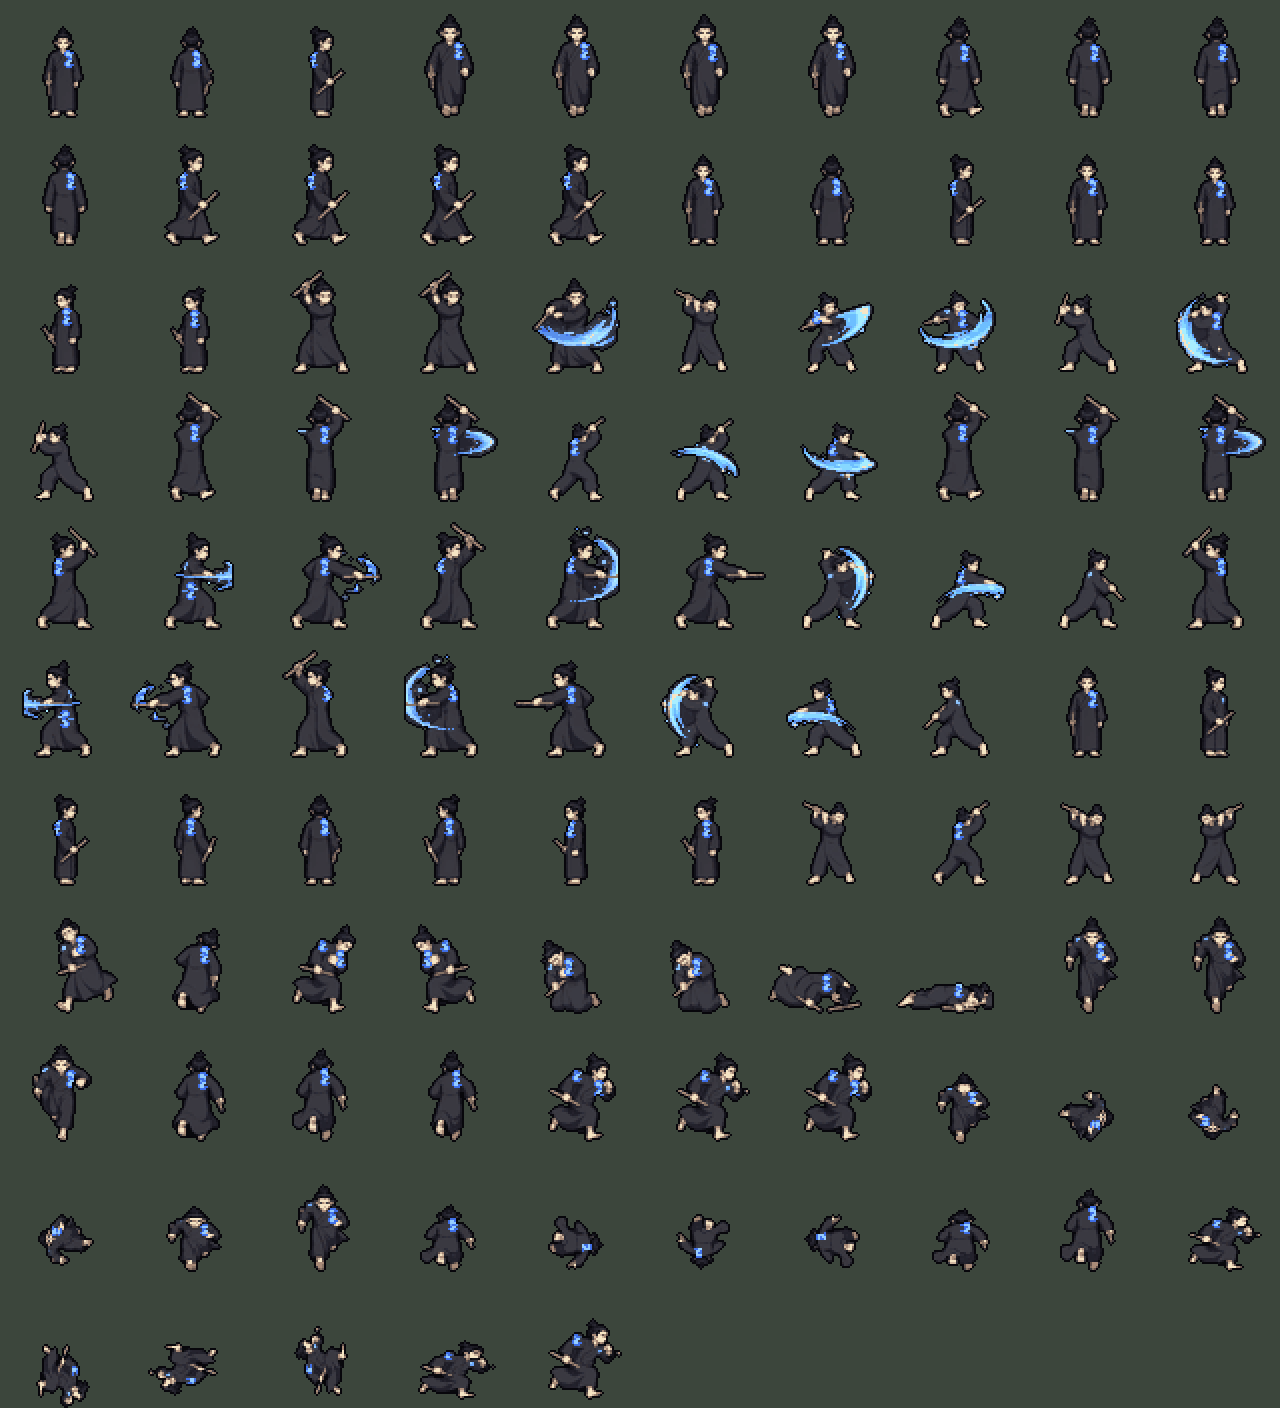
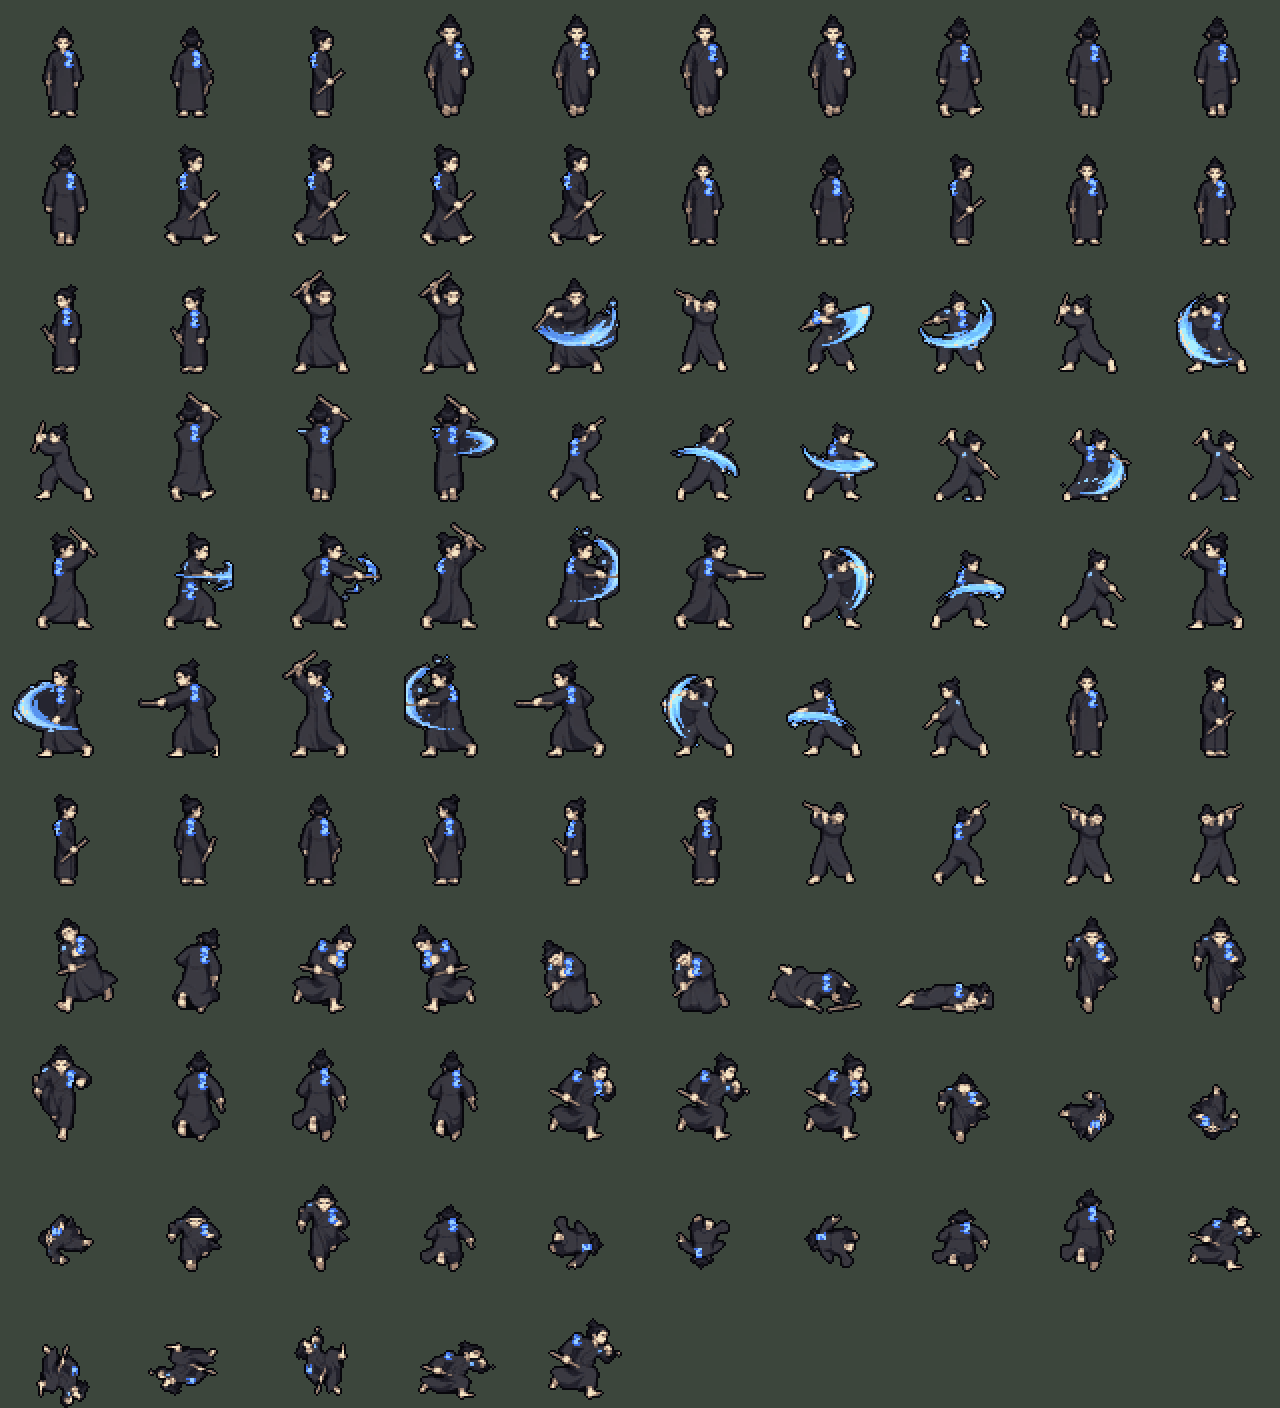
art(hero): 방향 컷 보강 — 왼쪽 1타 원본 컷, 위 3타 뒷모습 전용

diff --git a/art/import_hero.py b/art/import_hero.py
@@ -147,12 +147,14 @@ def build():
                  row('attack8', [(50, 890, 330, 1240), (330, 890, 620, 1240), (620, 890, 960, 1240)], A8)],
         'up': [row('attack', [(100, 425, 360, 850), (400, 425, 620, 850), (650, 425, 950, 850)], A),
                row('attack8', [(60, 490, 330, 850), (330, 490, 640, 850), (640, 490, 960, 850)], A8),
-               row('attack', [(100, 425, 360, 850), (400, 425, 620, 850), (650, 425, 950, 850)], A)],
+               row('attack8', [(990, 385, 1290, 670), (1290, 385, 1590, 670), (1590, 385, 1910, 670)], A8)],   # 3타: 반전 대체 -> 뒷모습 전용 컷
         'right': [row('attack', [(1030, 0, 1290, 425), (1290, 0, 1560, 425), (1560, 0, 1920, 425)], A),
                   row('attack', [(1010, 425, 1290, 850), (1290, 425, 1560, 850), (1560, 425, 1920, 850)], A),
                   row('attack8', [(990, 890, 1290, 1240), (1290, 890, 1590, 1240), (1590, 890, 1910, 1240)], A8)],
     }
     F['atk']['left'] = [[t.transpose(Image.FLIP_LEFT_RIGHT) for t in c] for c in F['atk']['right']]
+    # 왼쪽 1타는 반전이 아닌 원본 '왼쪽을 보는' 컷(attack 시트 3행)
+    F['atk']['left'][0] = row('attack', [(90, 860, 340, 1250), (310, 880, 620, 1250), (950, 870, 1260, 1250)], A)
     # ---- song (flute at the lips)
     F['song'] = {'down': F['atk']['down'][1][0], 'up': F['atk']['up'][1][0], 'right': grab('attack8', (1000, 30, 1290, 410), A8)}
     F['song']['left'] = F['song']['right'].transpose(Image.FLIP_LEFT_RIGHT)
